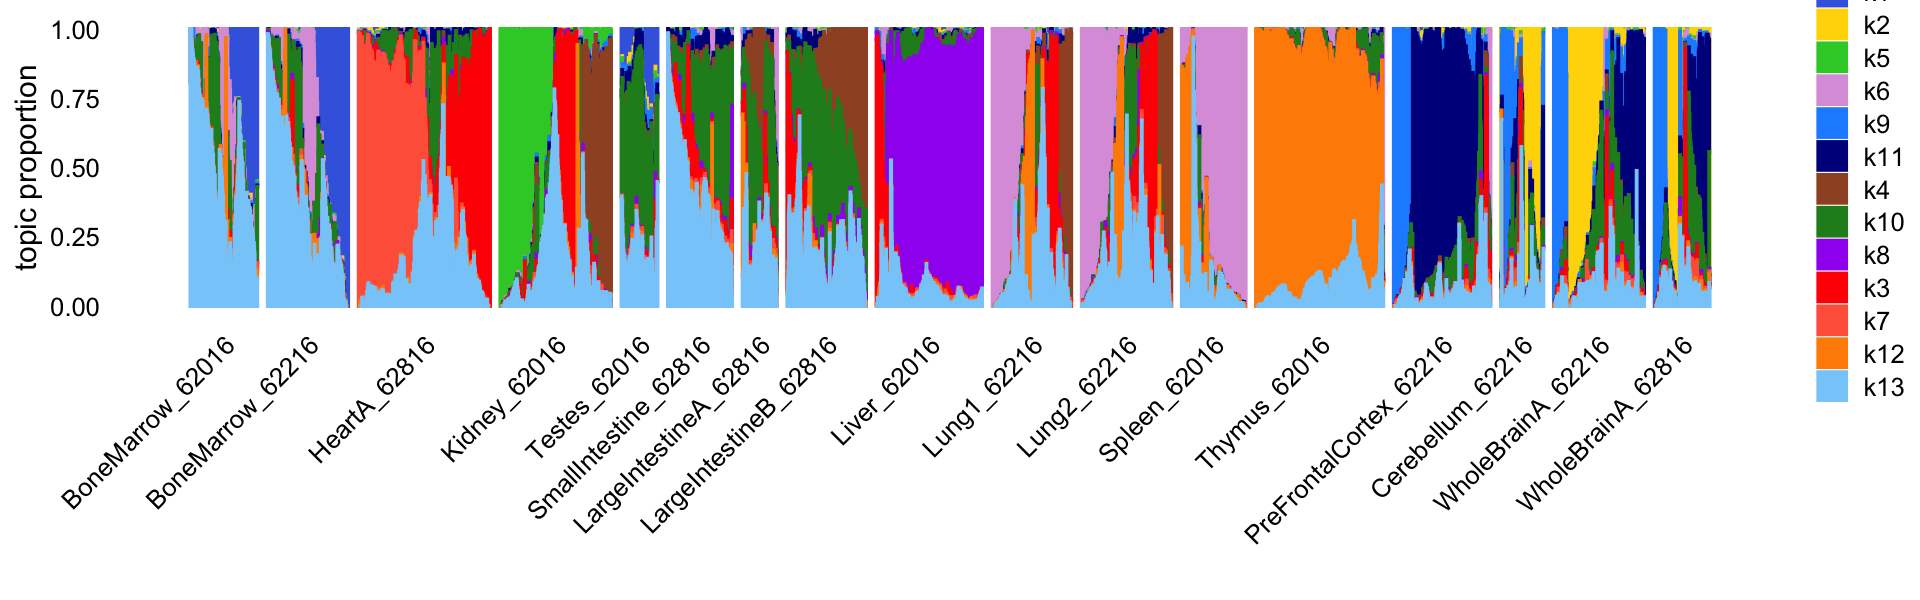
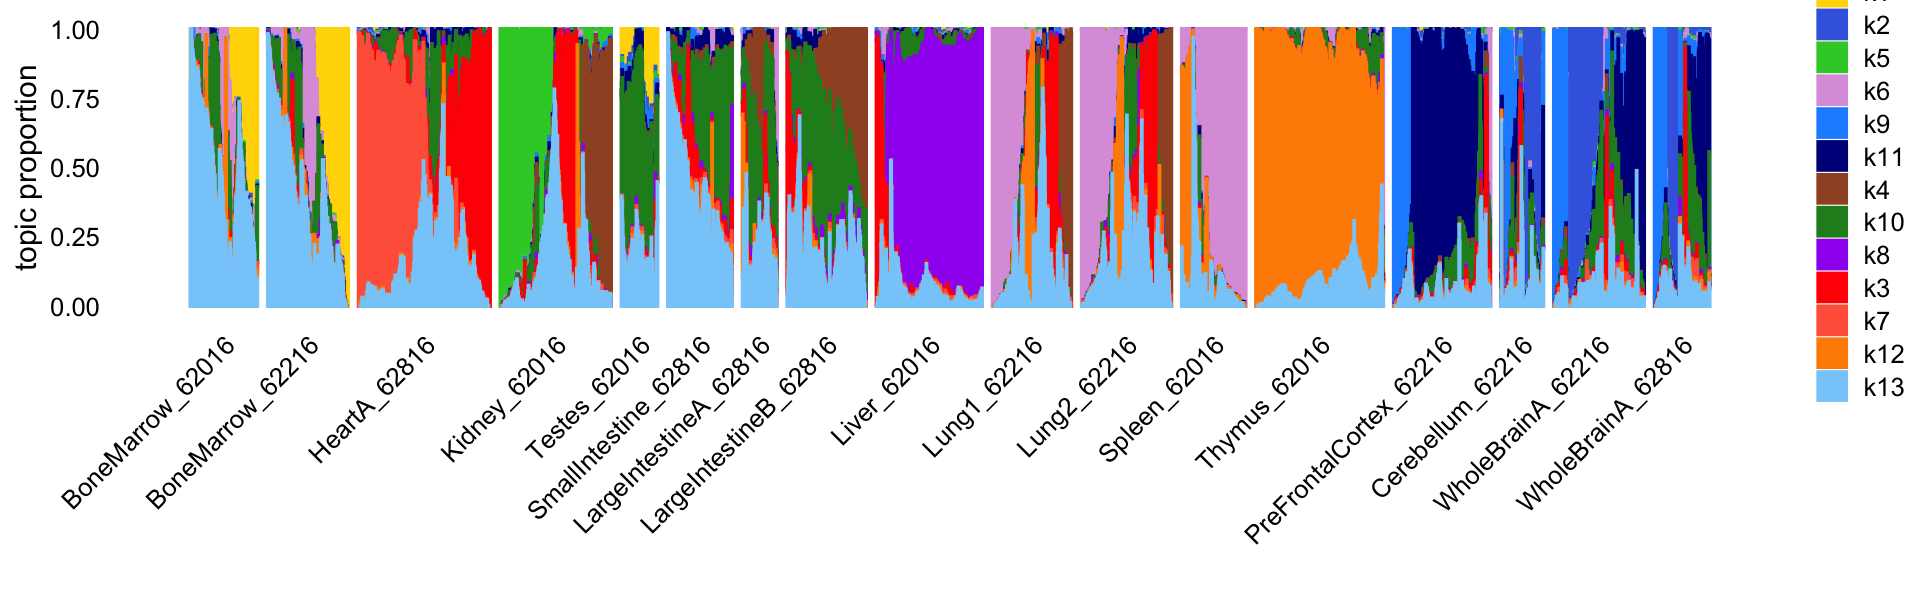
Improved the structure plot in the cusanovich2018_k13 analysis.

diff --git a/docs/cusanovich2018_k13.html b/docs/cusanovich2018_k13.html
@@ -507,15 +507,15 @@ project makes it easier to run your code on other machines.</p>
 <div class="panel panel-default">
 <div class="panel-heading">
 <p class="panel-title">
-<a data-toggle="collapse" data-parent="#workflowr-checks" href="#strongRepositoryversionstrongahrefhttpsgithubcomstephenslabscATACseqtopicstreedb1e9f0b04e5465d11501262a3d5a5fa1121858btargetblankdb1e9f0a">
+<a data-toggle="collapse" data-parent="#workflowr-checks" href="#strongRepositoryversionstrongahrefhttpsgithubcomstephenslabscATACseqtopicstreef62a0d16177d84e1ed497e5eadeb7f3e74b2a5cftargetblankf62a0d1a">
 <span class="glyphicon glyphicon-ok text-success"
 aria-hidden="true"></span> <strong>Repository version:</strong>
-<a href="https://github.com/stephenslab/scATACseq-topics/tree/db1e9f0b04e5465d11501262a3d5a5fa1121858b" target="_blank">db1e9f0</a>
+<a href="https://github.com/stephenslab/scATACseq-topics/tree/f62a0d16177d84e1ed497e5eadeb7f3e74b2a5cf" target="_blank">f62a0d1</a>
 </a>
 </p>
 </div>
 <div
[2 lines of base64/hex data omitted]
 class="panel-collapse collapse">
 <div class="panel-body">
 <p>
@@ -525,7 +525,7 @@ reproducibility.
 </p>
 <p>
 The results in this page were generated with repository version
-<a href="https://github.com/stephenslab/scATACseq-topics/tree/db1e9f0b04e5465d11501262a3d5a5fa1121858b" target="_blank">db1e9f0</a>.
+<a href="https://github.com/stephenslab/scATACseq-topics/tree/f62a0d16177d84e1ed497e5eadeb7f3e74b2a5cf" target="_blank">f62a0d1</a>.
 See the <em>Past versions</em> tab to see a history of the changes made
 to the R Markdown and HTML files.
 </p>
@@ -607,6 +607,41 @@ Message
 Rmd
 </td>
 <td>
+<a href="https://github.com/stephenslab/scATACseq-topics/blob/f62a0d16177d84e1ed497e5eadeb7f3e74b2a5cf/analysis/cusanovich2018_k13.Rmd" target="_blank">f62a0d1</a>
+</td>
+<td>
+Peter Carbonetto
+</td>
+<td>
+2022-08-01
+</td>
+<td>
+workflowr::wflow_publish("analysis/cusanovich2018_k13.Rmd", verbose =
+TRUE)
+</td>
+</tr>
+<tr>
+<td>
+html
+</td>
+<td>
+<a href="https://rawcdn.githack.com/stephenslab/scATACseq-topics/643af508686451a9736eedfdb8e595ca681e64a2/docs/cusanovich2018_k13.html" target="_blank">643af50</a>
+</td>
+<td>
+Peter Carbonetto
+</td>
+<td>
+2022-08-01
+</td>
+<td>
+Build site.
+</td>
+</tr>
+<tr>
+<td>
+Rmd
+</td>
+<td>
 <a href="https://github.com/stephenslab/scATACseq-topics/blob/db1e9f0b04e5465d11501262a3d5a5fa1121858b/analysis/cusanovich2018_k13.Rmd" target="_blank">db1e9f0</a>
 </td>
 <td>
@@ -683,9 +718,15 @@ samples &lt;- transform(samples,
 <p>Next load the <span class="math inline">\(k = 13\)</span> multinomial
 topic model fit:</p>
 <pre class="r"><code>fit &lt;- readRDS(&quot;output/Cusanovich_2018/fit-Cusanovich2018-scd-ex-k=13.rds&quot;)$fit</code></pre>
-<p><em>Add text here.</em></p>
+<p>This Structure plot shows the cells arranged by tissue. Note that
+replicates were collected for four of the tissues (bone marrow, lung,
+small intestine, whole brain) in a second mouse. Reassuringly, the
+replicates show a very similar distribution of topics. Also
+reassuringly, some tissues are clearly distinguished by the topics
+(e.g., thymus), and similar tissues (e.g., small and large intenstine)
+share topics.</p>
 <pre class="r"><code>set.seed(1)
-topic_colors &lt;- c(&quot;royalblue&quot;,&quot;gold&quot;,&quot;red&quot;,&quot;sienna&quot;,&quot;limegreen&quot;,
+topic_colors &lt;- c(&quot;gold&quot;,&quot;royalblue&quot;,&quot;red&quot;,&quot;sienna&quot;,&quot;limegreen&quot;,
                   &quot;plum&quot;,&quot;tomato&quot;,&quot;purple&quot;,&quot;dodgerblue&quot;,&quot;forestgreen&quot;,
                   &quot;darkblue&quot;,&quot;darkorange&quot;,&quot;lightskyblue&quot;)
 topics &lt;- c(1,2,5,6,9,11,4,10,8,3,7,12,13)
@@ -716,6 +757,17 @@ Date
 </tr>
 </thead>
 <tbody>
+<tr>
+<td>
+<a href="https://github.com/stephenslab/scATACseq-topics/blob/643af508686451a9736eedfdb8e595ca681e64a2/docs/figure/cusanovich2018_k13.Rmd/structure-plot-1-1.png" target="_blank">643af50</a>
+</td>
+<td>
+Peter Carbonetto
+</td>
+<td>
+2022-08-01
+</td>
+</tr>
 <tr>
 <td>
 <a href="https://github.com/stephenslab/scATACseq-topics/blob/52d46637ac155655968452188e8ed1cdfed297b9/docs/figure/cusanovich2018_k13.Rmd/structure-plot-1-1.png" target="_blank">52d4663</a>
